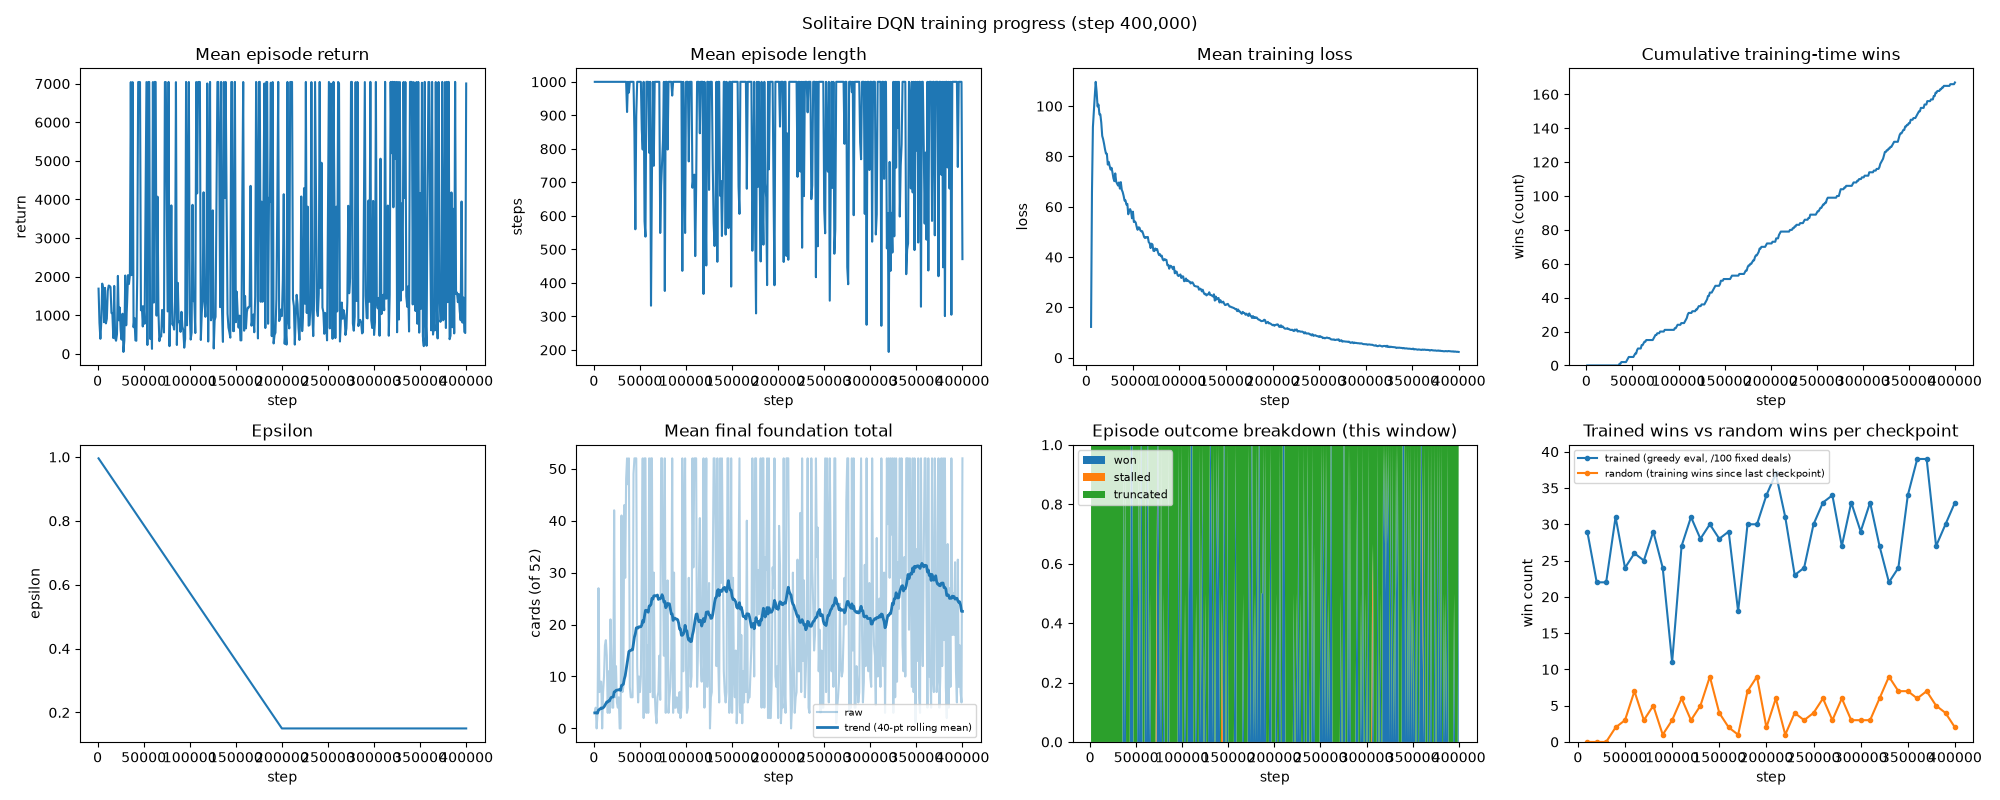
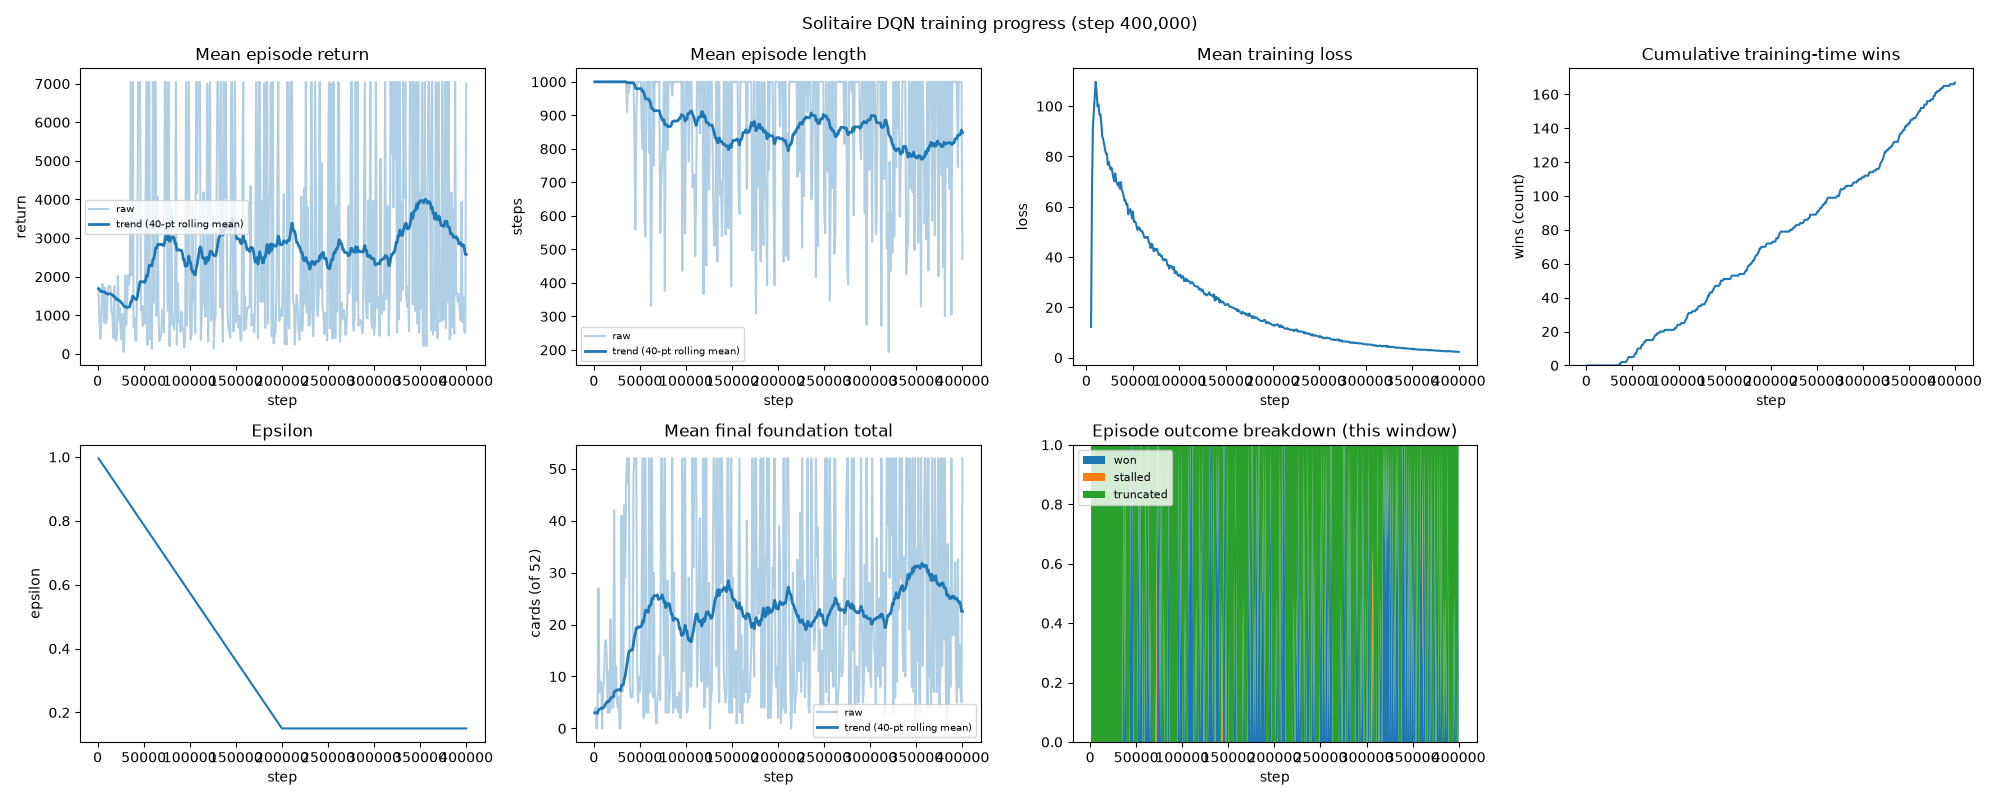
Add trend lines to mean-return/mean-episode-length plots, matching mean-foundation
Both were plotted raw-only while mean_final_foundation already got a
120-point rolling-mean trend line - an inconsistency that made them look
unreadable (dense noise cloud against a y-axis stretched to ~7000 for
winning episodes), to the point of visually overestimating how many
episodes score low (looked like over half below 1000; actual is 37.8%).
Regenerated existing runs' plots from their already-saved metrics.csv.

Claude-Session: https://claude.ai/code/session_019FqMAgshcqYfBJ3GTpWyMA

diff --git a/agent/metrics.py b/agent/metrics.py
@@ -129,8 +129,8 @@ class MetricsLogger:
         fig, axes = plt.subplots(2, 4, figsize=(20, 8))
         fig.suptitle(f"Solitaire DQN training progress (step {int(steps[-1]):,})")
 
-        _line(axes[0, 0], steps, [r["mean_return"] for r in rows], "Mean episode return", "return")
-        _line(axes[0, 1], steps, [r["mean_episode_len"] for r in rows], "Mean episode length", "steps")
+        _line(axes[0, 0], steps, [r["mean_return"] for r in rows], "Mean episode return", "return", trend=True)
+        _line(axes[0, 1], steps, [r["mean_episode_len"] for r in rows], "Mean episode length", "steps", trend=True)
         _line(axes[0, 2], steps, [r["mean_loss"] for r in rows], "Mean training loss", "loss")
         _line(axes[0, 3], steps, [r["lifetime_wins"] for r in rows], "Cumulative training-time wins", "wins (count)")
         axes[0, 3].yaxis.set_major_locator(MaxNLocator(integer=True))
